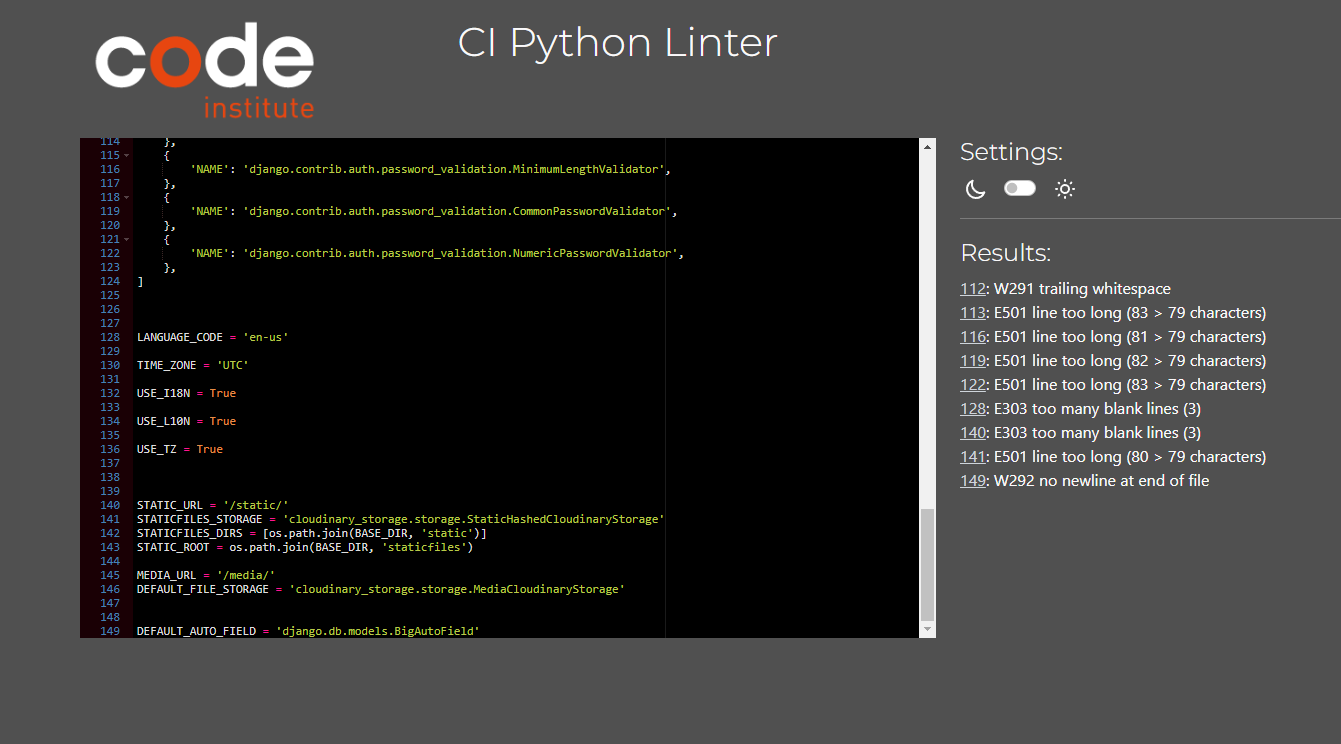
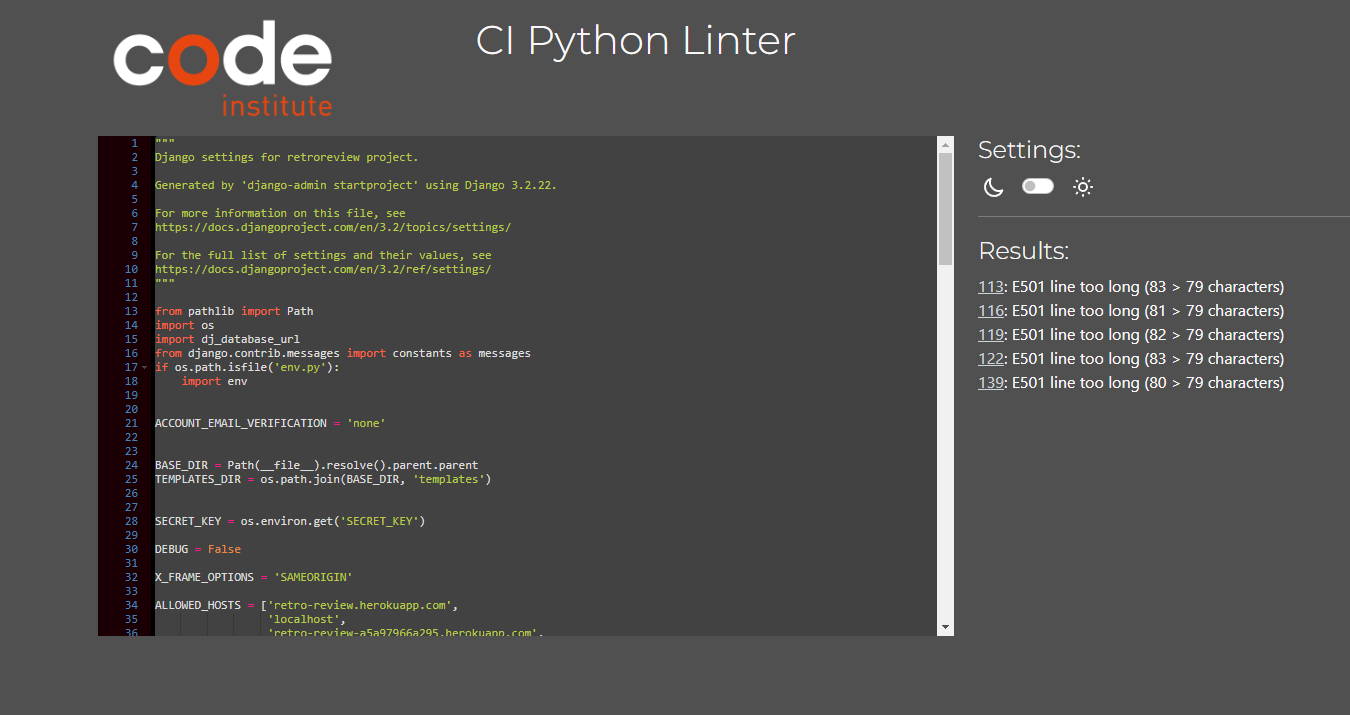
update readme

diff --git a/retroreview/settings.py b/retroreview/settings.py
@@ -25,7 +25,6 @@ BASE_DIR = Path(__file__).resolve().parent.parent
 TEMPLATES_DIR = os.path.join(BASE_DIR, 'templates')
 
 
-
 SECRET_KEY = os.environ.get('SECRET_KEY')
 
 DEBUG = False
@@ -33,10 +32,10 @@ DEBUG = False
 X_FRAME_OPTIONS = 'SAMEORIGIN'
 
 ALLOWED_HOSTS = ['retro-review.herokuapp.com',
-                  'localhost','retro-review-a5a97966a295.herokuapp.com',
-                  '127.0.0.1',
-                  ]
-
+                 'localhost',
+                 'retro-review-a5a97966a295.herokuapp.com',
+                 '127.0.0.1',
+                 ]
 
 
 INSTALLED_APPS = [
@@ -108,10 +107,10 @@ DATABASES = {
 }
 
 
-
 AUTH_PASSWORD_VALIDATORS = [
     {
-        'NAME': 'django.contrib.auth.password_validation.UserAttributeSimilarityValidator',
+        'NAME':
+        'django.contrib.auth.password_validation.UserAttributeSimilarityValidator',
     },
     {
         'NAME': 'django.contrib.auth.password_validation.MinimumLengthValidator',
@@ -125,7 +124,6 @@ AUTH_PASSWORD_VALIDATORS = [
 ]
 
 
-
 LANGUAGE_CODE = 'en-us'
 
 TIME_ZONE = 'UTC'
@@ -135,7 +133,6 @@ USE_I18N = True
 USE_L10N = True
 
 USE_TZ = True
-
 
 
 STATIC_URL = '/static/'

diff --git a/README.md b/README.md
@@ -5,6 +5,7 @@ RetroReview is a Retro videogame review website made with Django, where website 
 
 ![mockup](https://github.com/HerFri/RetroReview/blob/main/readmeimages/mockup.PNG?raw=true)
 The mockup image has been generated on [https://ui.dev/amiresponsive](https://ui.dev/amiresponsive)
+
 Visit the live page [here](https://retro-review-a5a97966a295.herokuapp.com/)
 
 # Agile Approach
@@ -220,7 +221,7 @@ The CRUD principle was the main part of the design process for this project. For
 - [GitHub](https://github.com/HerFri) (Version Control)
 - [Visual Studio Code](https://code.visualstudio.com/) (IDE)
 - [Heroku](https://dashboard.heroku.com/apps) (Site Hosting)
-- [Cloudinary](Serving static media files)
+- [Cloudinary](https://cloudinary.com/) (Serving static media files)
 - [ChatGPT](https://openai.com/chatgpt) (Help understanding and fixing bugs)
 
 ## Python Libraries
